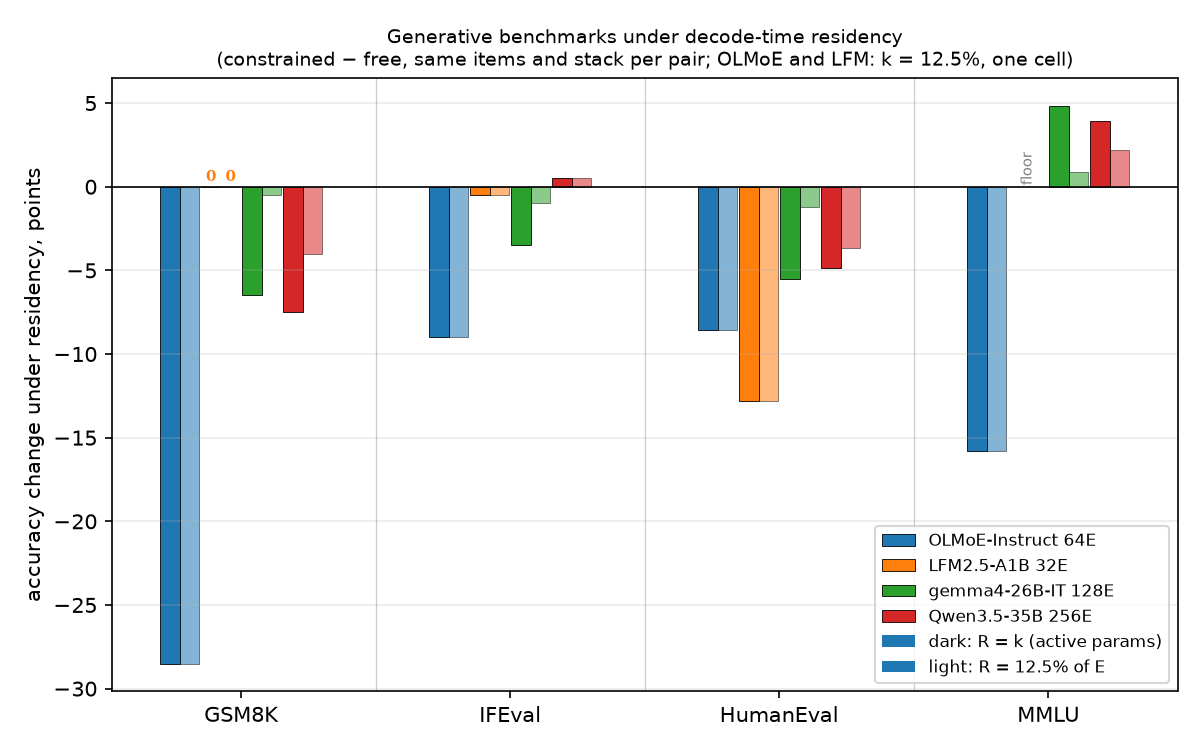
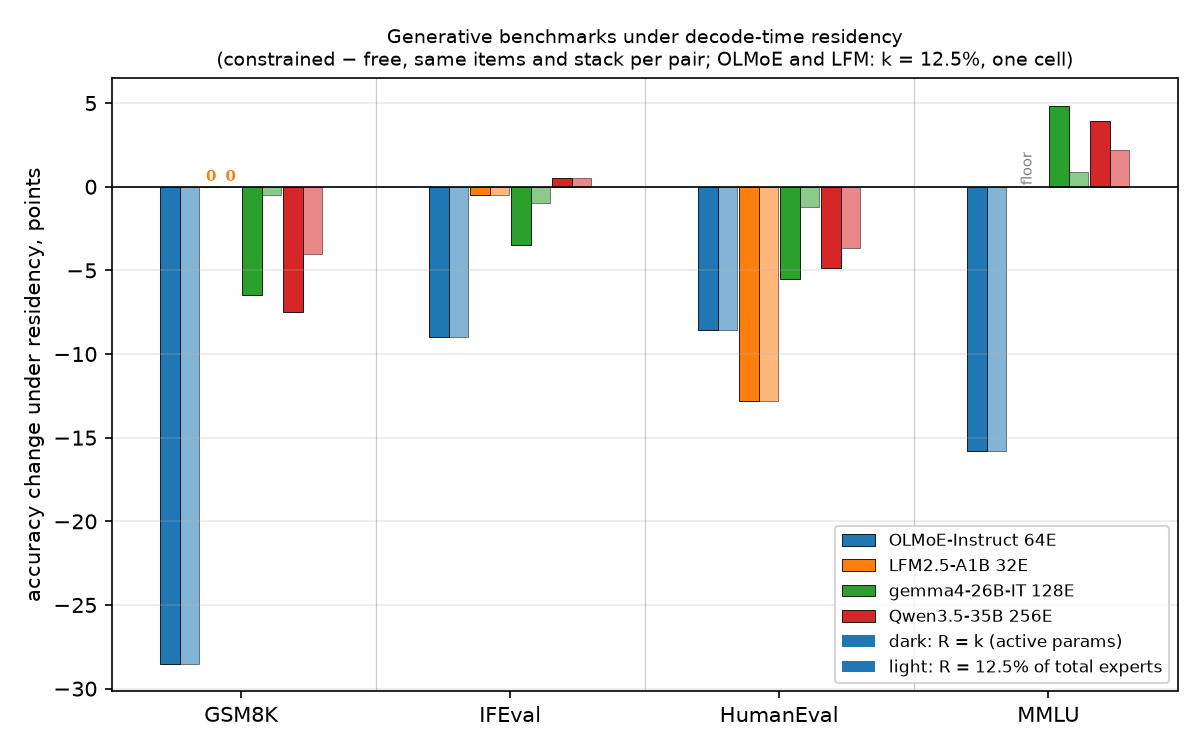
Benchmark figure legend: total experts spelled out

Changed region(s): [[0.6783, 0.7053, 0.9558, 0.92]]

diff --git a/analysis/ple/plot_instruct.py b/analysis/ple/plot_instruct.py
@@ -102,7 +102,7 @@ def bench():
     for j in range(len(benches) - 1):
         ax.axvline((j + 0.5) * GX, color="grey", lw=0.6, alpha=0.4)
     ax.bar([], [], color="0.25", label="dark: R = k (active params)", edgecolor="black")
-    ax.bar([], [], color="0.8", label="light: R = 12.5% of E", edgecolor="black")
+    ax.bar([], [], color="0.8", label="light: R = 12.5% of total experts", edgecolor="black")
     ax.axhline(0, color="black", lw=0.8)
     ax.set_xticks([j * GX for j in range(len(benches))])
     ax.set_xticklabels(benches)
